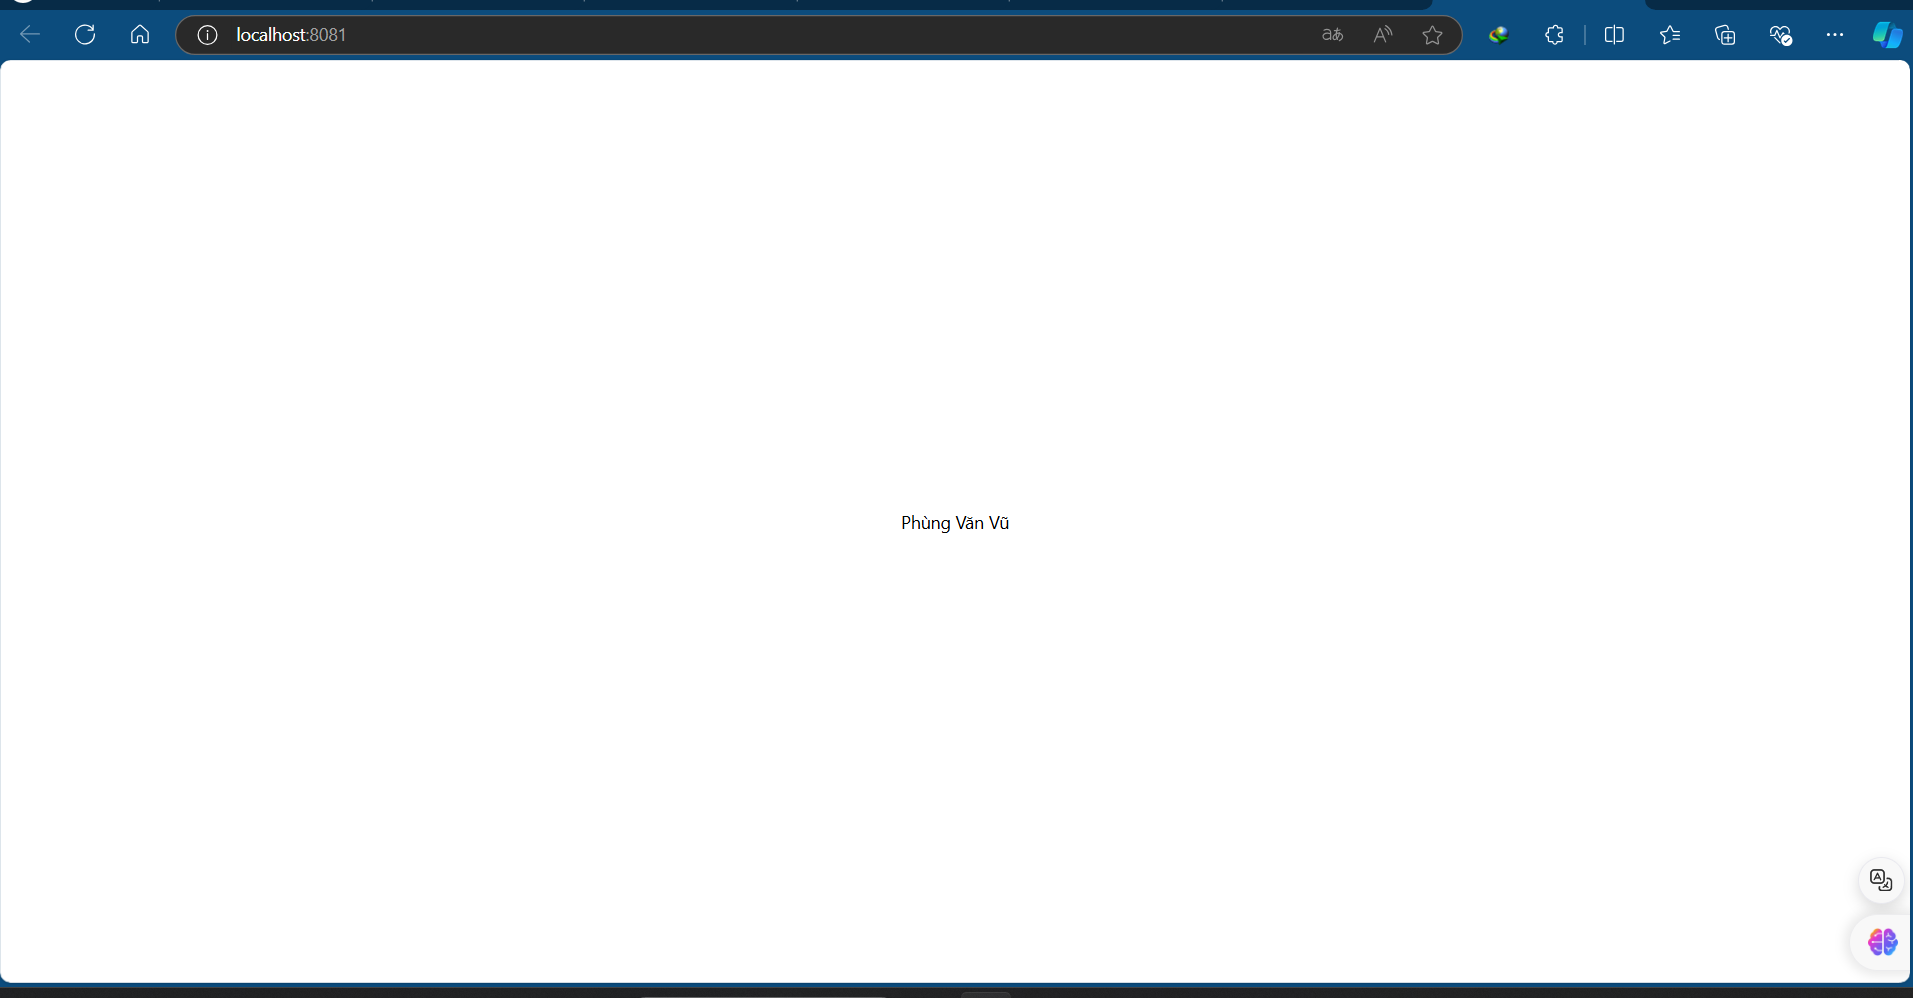
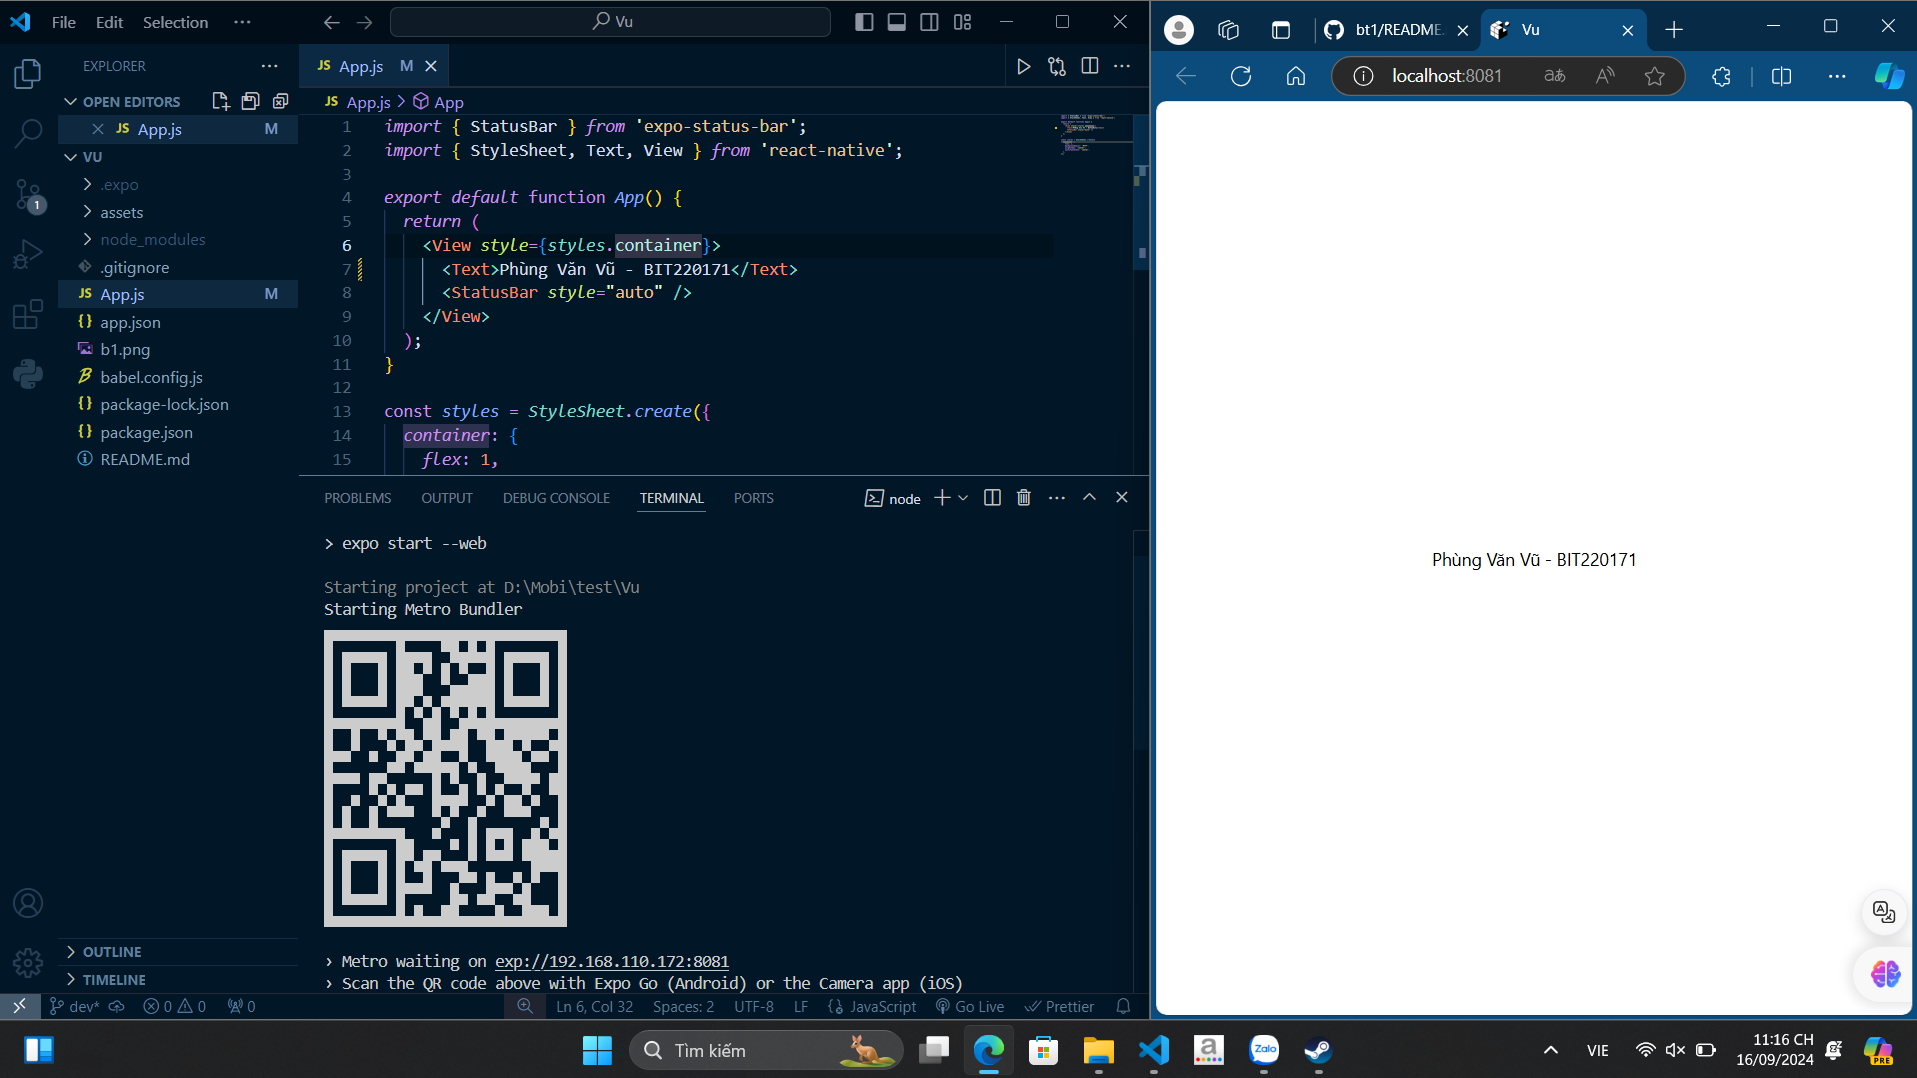
b1

diff --git a/App.js b/App.js
@@ -4,7 +4,7 @@ import { StyleSheet, Text, View } from 'react-native';
 export default function App() {
   return (
     <View style={styles.container}>
-      <Text>Phùng Văn Vũ</Text>
+      <Text>Phùng Văn Vũ - BIT220171</Text>
       <StatusBar style="auto" />
     </View>
   );
